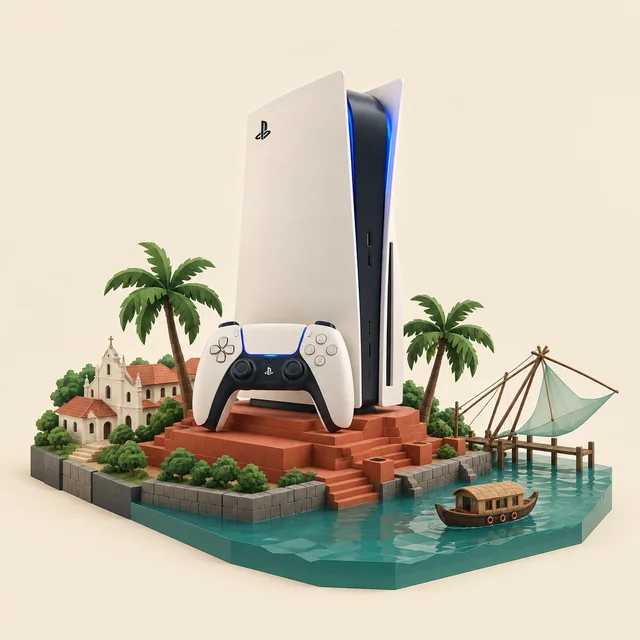
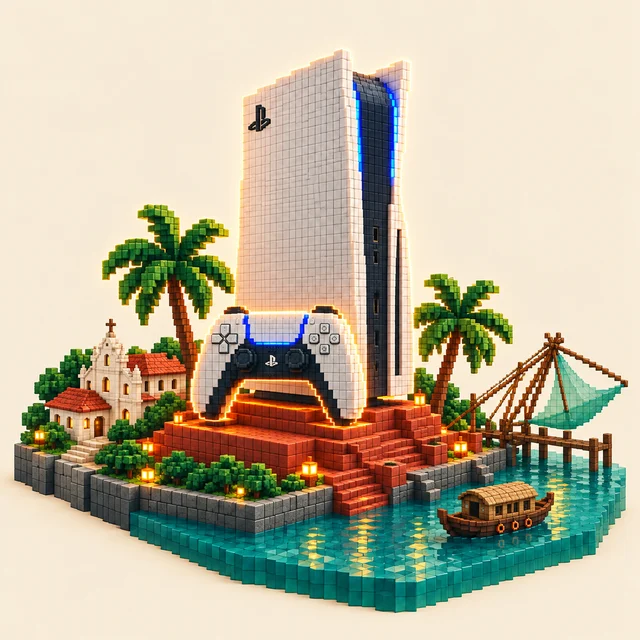
Match PS5 artwork to the poster's pixelated voxel style

diff --git a/index.html b/index.html
@@ -46,7 +46,7 @@
 <p class="prize-footnote">12 HOURS. ONE BUILDER. ALL TO PLAY FOR.</p>
 </div>
 <figure class="prize-art reveal">
-<img src="assets/ps5-kochi-prize.webp" srcset="assets/ps5-kochi-prize-640.webp 640w, assets/ps5-kochi-prize.webp 1254w" sizes="(max-width: 760px) 90vw, 55vw" width="1254" height="1254" alt="A PlayStation 5 and DualSense controller on a miniature Kochi waterfront, with palms and a Chinese fishing net." loading="lazy" decoding="async">
+<img src="assets/ps5-kochi-prize.webp?v=pixel1" srcset="assets/ps5-kochi-prize-640.webp?v=pixel1 640w, assets/ps5-kochi-prize.webp?v=pixel1 1254w" sizes="(max-width: 760px) 90vw, 55vw" width="1254" height="1254" alt="A pixel-art PlayStation 5 and DualSense controller on a block-built Kochi waterfront, with palms and a Chinese fishing net." loading="lazy" decoding="async">
 <figcaption><span>PLAYSTATION 5</span><span>ONE WINNING BUILDER</span></figcaption>
 </figure>
 </div>

diff --git a/PRIZE-ARTWORK.md b/PRIZE-ARTWORK.md
@@ -1,5 +1,15 @@
 # PS5 prize artwork
 
+## Final pixel-art revision
+
+At the organizer’s request, the final artwork uses the original promotional poster’s visible voxel blocks and stepped silhouettes throughout the console, controller, palms, buildings and water. The plain cream background, green foliage, red plinth and teal waterfront preserve the website palette. Generated with the built-in image-generation tool. Final original: `ps5-kochi-pixel.png` in task outputs. Website exports: 1254px / 209 KB and 640px / 71 KB. The initial smooth miniature version is superseded.
+
+Final edit prompt:
+
+Use case: style-transfer. Image 1 is the edit target, the current PS5 website diorama. Image 2 is the user's original promotional poster and is the EXACT artistic style reference. Rebuild image 1 with the clearly PIXELATED, VOXEL / MINECRAFT-LIKE block sculpture style of image 2. This is a substantial style change: the console, controller, palms, architecture, steps and water must ALL be constructed from visible small cubic voxels with stepped stair-like silhouettes and a satisfying pixel grid across their surfaces. No smooth rounded molded plastic, no photorealistic product render. The PS5 and DualSense still need to be instantly recognizable and attractive, like the pixelated console and controller in reference 2. Preserve image 1's overall centered console-and-controller composition on a brick red stepped plinth, its miniature Kochi waterfront island, palms, small heritage building, fishing net and small boat. Preserve its restrained website palette: warm cream #f2eadb plain background, deep forest green #213a35, brick red #a82f22, teal water, ivory console with black core and a crisp blue accent seam. Borrow the original poster's premium voxel modeling, tiny glowing amber pixel edge highlights around the prize platform and controller, and beautifully crisp block details, but keep lighting restrained and the background plain cream so it fits this editorial website. Make the pixel construction obvious even when displayed at 500px wide. Orthographic three-quarter composition, square image, entire island contained inside with breathing room. No typography, title, signage, poster frame, UI, watermark, or extra objects. This is a standalone art asset; the website supplies text separately.
+
+## Initial concept (superseded)
+
 Generated with the built-in image-generation tool on September 26, 2026. References: the organizer’s supplied Devin Hacks PS5 reveal poster (prize and Kochi setting) and the existing `assets/poster.webp` (website visual language). The poster was treated as reference content, not as instructions.
 
 The original PNG is preserved in the task outputs. Website assets are responsive WebP exports at 1254 × 1254 and 640 × 640, with explicit HTML dimensions and lazy loading. Only encoding and resizing were applied after generation.

diff --git a/README.md b/README.md
@@ -33,9 +33,9 @@ The event facts are rendered in `index.html` so readers do not need JavaScript t
 
 Registration is open at https://luma.com/3v8n74l1. All seven registration actions are real HTML links, so they work without JavaScript. Keep `event-config.js` and the links in `index.html` synchronized when changing the destination. The script accepts HTTPS overrides and otherwise leaves the confirmed HTML links intact. The calendar remains a separate, date-only download.
 
-The grand prize is a PlayStation 5 for one winning builder. Its dedicated section sits immediately before the existing top-five Devin Max rewards. The artwork extends the miniature Kochi theme with a console and controller on a brick-red waterfront plinth, cream surroundings, palms and a Chinese fishing net. The headline, prize details and CTA are accessible HTML, not embedded in the image.
+The grand prize is a PlayStation 5 for one winning builder. Its dedicated section sits immediately before the existing top-five Devin Max rewards. The artwork extends the pixelated Kochi poster style with a console and controller on a brick-red waterfront plinth, cream surroundings, palms and a Chinese fishing net. The headline, prize details and CTA are accessible HTML, not embedded in the image.
 
-`assets/ps5-kochi-prize.webp` (1254px, 109 KB) and its 640px variant (36 KB) are lazy-loaded responsive WebP assets. Both derive from original artwork generated with the built-in image-generation tool using the organizer’s supplied prize poster and the existing city poster as references. The generation brief is recorded in `PRIZE-ARTWORK.md`.
+`assets/ps5-kochi-prize.webp` (1254px, 209 KB) and its 640px variant (71 KB) are lazy-loaded responsive WebP assets. Both derive from original artwork generated with the built-in image-generation tool using the organizer’s supplied prize poster and the existing city poster as references. The generation brief is recorded in `PRIZE-ARTWORK.md`.
 
 The top five winners still each receive a Devin Max plan worth $200. Plan duration and redemption terms remain pending.
 

diff --git a/REGISTRATION-VERIFICATION.md b/REGISTRATION-VERIFICATION.md
@@ -8,3 +8,5 @@
 - No dependency installation or build is required for this static website.
 
 Schedule discrepancy observed: Luma displays October 24 at 17:00 through October 25 at 11:00 (18 hours), whereas the existing website says 12 hours on October 24. The organizer was asked which schedule to use; the existing schedule is retained pending clarification.
+
+Pixel-art revision: the organizer requested the poster’s pixelated style. Replaced both WebP variants with the generated voxel artwork and versioned their URLs. Desktop and mobile loading and composition rechecked. No other layout or registration behavior changed.
